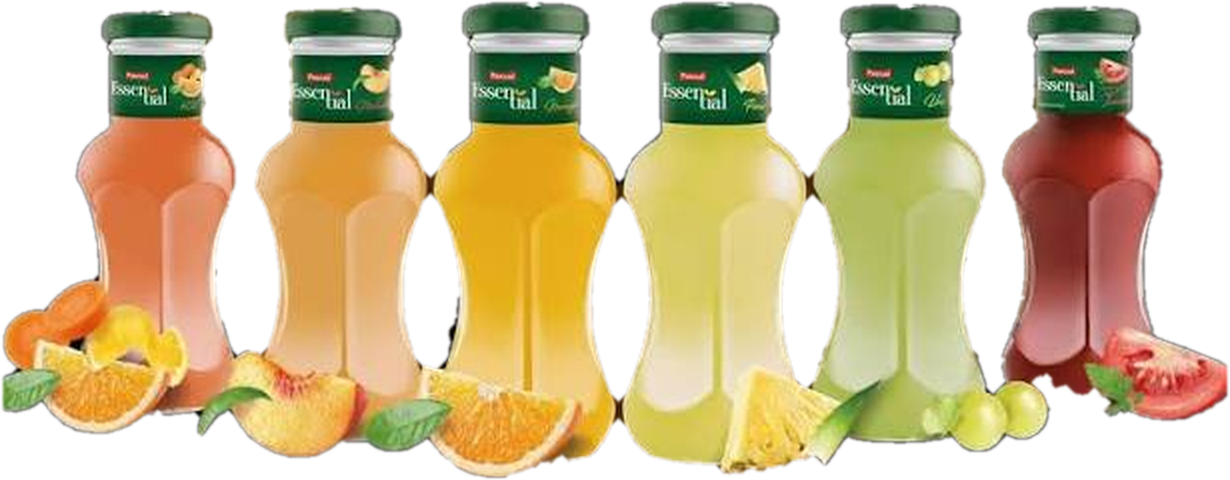
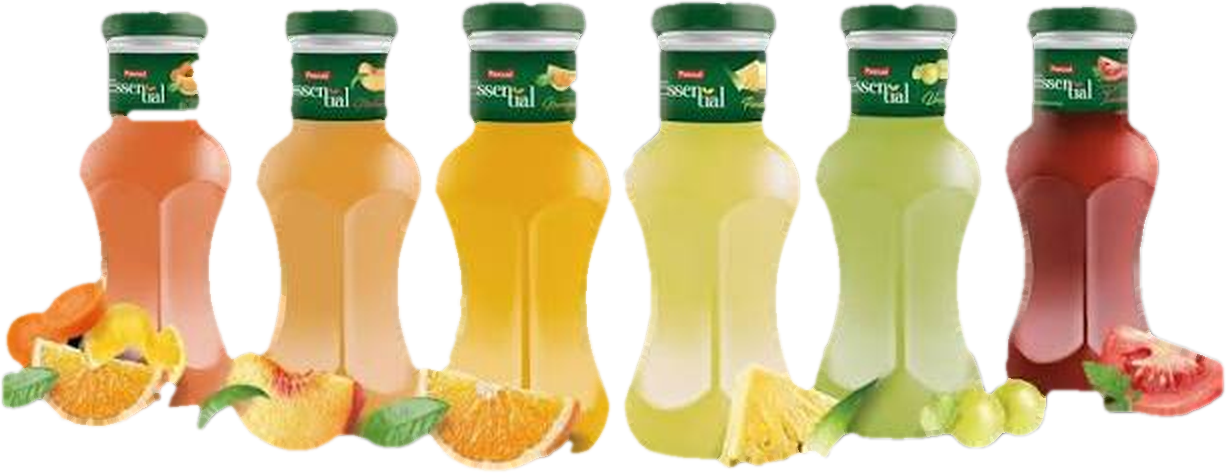
Pascual: recorte más limpio de la gama Essential
Claude-Session: https://claude.ai/code/session_01TfVuY2sTVvMwp4RqzYabW2

diff --git a/pascual-products.js b/pascual-products.js
@@ -178,7 +178,7 @@ window.ProductWorld.init({
     },
     {
       template: 'ambiente', id: 'zumos-gama', family: 'Bebidas Pascual', color: '#ffedda', ink: '#512f1c',
-      image: 'assets/pascual/zumos-essential-gama.png', width: 1230, height: 480,
+      image: 'assets/pascual/zumos-essential-gama.png', width: 1226, height: 473,
       alt: 'La gama de zumos Pascual Essential en botella de vidrio'
     },
     {
